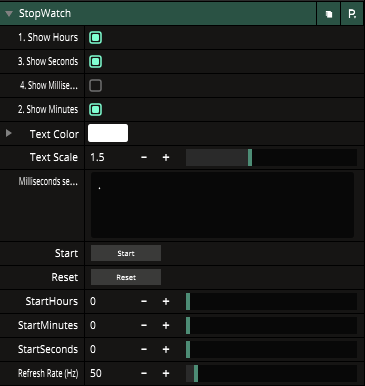
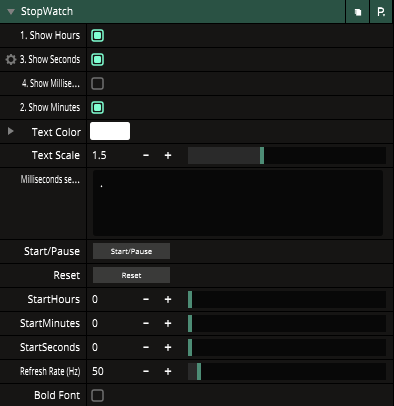
Add bold toggle to StopWatch

diff --git a/README.md b/README.md
@@ -71,7 +71,7 @@ Screenshots:
 ![Preview-3](https://github.com/YaNesyTortiK/WirePatches/blob/main/img/Timer/Preview-3.png?raw=true)
 
 ## StopWatch
-This patch is providing a digital stopwatch with hours, minutes, seconds and milliseconds with ability to disable any of these individually. Also you can change text color, scale text, change refresh rate.
+This patch is providing a digital stopwatch with hours, minutes, seconds and milliseconds with ability to disable any of these individually. Also you can change text color, scale text, change refresh rate and toggle between bold and regular font.
 
 [>DOWNLOAD<](https://raw.githubusercontent.com/YaNesyTortiK/WirePatches/refs/heads/main/StopWatch.wired)
 